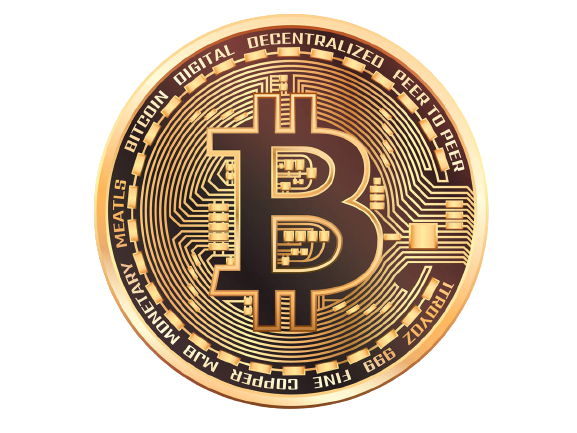
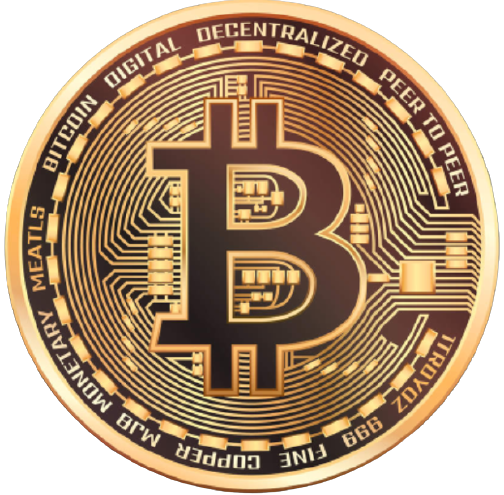
Crypto coin images - Added crypto coin images - Fixed displays and images - Fixed frontend GUI displays being a bit wack - Added the playerActions class to outsource everything player related - Designed the crypto coin frontend

diff --git a/frontend/coin/CoinDisplay.java b/frontend/coin/CoinDisplay.java
@@ -1,0 +1,70 @@
+package frontend.coin;
+
+import javax.swing.JLabel;
+import gameNav.Player;
+import javax.swing.ImageIcon;
+import java.awt.Dimension;
+import java.awt.event.MouseEvent;
+import java.awt.event.MouseListener;
+
+/**
+ * Displays the dogecoin! Ok... maybe not the doge coin at first
+ * 
+ * @author Justin
+ * @since 4/13/21
+ * @category frontend.coin
+ */
+public class CoinDisplay extends JLabel 
+{
+    private static final long serialVersionUID = 0;
+
+    /**
+     * Constructs a coin!
+     */
+    public CoinDisplay() 
+    {
+        super();
+        this.updateImage();
+        this.setVerticalAlignment(JLabel.CENTER);
+        this.setPreferredSize(new Dimension(500, 350));
+
+        /*
+            Responds to button clicks.
+            Translated bc I can't read this java mess:
+
+            this.addEventListener("click", () => {
+                coin.click();
+            })
+        */
+        this.addMouseListener(new MouseListener() {
+            public void mouseClicked(MouseEvent e) {
+                //Player.getCoin().click();
+            }
+
+            //Yes we're never going to use you smh
+            //Pls stop with the warnings pls vsc 🥺
+            public void mouseExit(MouseEvent e) {
+            }
+
+            public void mouseReleased(MouseEvent e) {
+            }
+
+            public void mousePressed(MouseEvent e) {
+            }
+
+            public void mouseExited(MouseEvent e) {
+            }
+
+            public void mouseEntered(MouseEvent e) {
+            }
+        });
+    }
+
+    /**
+     * Update the coin display image according to the player's current coin
+     */
+    public void updateImage() 
+    {
+        this.setIcon(new ImageIcon(new ImageIcon(Player.getCoin().getImage()).getImage().getScaledInstance(350, 350, 16)));
+    }
+}

diff --git a/frontend/GUI.java b/frontend/GUI.java
@@ -3,6 +3,7 @@ import javax.swing.*;
 import java.awt.BorderLayout;
 
 import frontend.statBar.StatBar;
+import frontend.coin.CoinDisplay;
 
 /**
  * Constructs a javax swing GUI for the app.
@@ -18,6 +19,11 @@ public class GUI extends JFrame
      * The statbar we're putting in to the GUI
      */
     private StatBar sBar;
+
+    /**
+     * The frontend display for the coin
+     */
+    private CoinDisplay coinDisplay;
 
     /**
      * Constructs the game GUI
@@ -39,6 +45,9 @@ public class GUI extends JFrame
         this.sBar = new StatBar();
         this.add(this.sBar, BorderLayout.NORTH);
 
+        this.coinDisplay = new CoinDisplay();
+        this.add(this.coinDisplay, BorderLayout.EAST);
+
         this.setVisible(true);
     }
 
@@ -49,5 +58,14 @@ public class GUI extends JFrame
     public StatBar getStatBar()
     {
         return this.sBar;
+    }
+
+    /**
+     * Accessor method for the coin display
+     * @return this.coinDisplay
+     */
+    public CoinDisplay getCoinDisplay()
+    {
+        return this.coinDisplay;
     }
 }

diff --git a/gameNav/PlayerActions.java b/gameNav/PlayerActions.java
@@ -1,0 +1,26 @@
+package gameNav;
+
+/**
+ * It's supposed to be game.java, but that doesn't rly exist in swing version.
+ * So now we have the PlayerActions class.
+ * This class will do all the clicking and taxes and stuff. Y' know, the fun stuff.
+ * This class is static!!!
+ * @author Justin
+ * @since 4/13/21
+ * @category gameNav
+ */
+public class PlayerActions 
+{
+    /**
+     * Doing a little trolling
+     * Ok ok we're actually stimulating a crypto coin click.
+     * Note that coins also have their own seperate click function that will be called.
+     * When you click, there's more things that happen that just a click that the coin itself doesn't manage.
+     * Like taxes
+     * @see Coin.prototype.click
+     */
+    public static void click()
+    {
+
+    }
+}

diff --git a/frontend/statBar/InvestorDisplay.java b/frontend/statBar/InvestorDisplay.java
@@ -27,7 +27,7 @@ public class InvestorDisplay extends DataDisplay
      */
     public void calibrate()
     {
-        String txt = "#" + StatLabel.calibrate(Player.getCoin().getInvestors());
+        String txt = "$" + StatLabel.calibrate(Player.getCoin().getInvestors());
         this.setText(txt);
     }
 }

diff --git a/gameNav/Player.java b/gameNav/Player.java
@@ -21,7 +21,7 @@ public class Player
     /**
      * The current coin type you have
      */
-    private static Coin currCoin = new Litecoin();
+    private static Coin currCoin = new Bitcoin();
 
     /**
      * The coin index the current coinArr idx player is at in the coinArr

diff --git a/classes/coin/Dogecoin.java b/classes/coin/Dogecoin.java
@@ -15,6 +15,6 @@ public class Dogecoin extends Coin
      */
     public Dogecoin()
     {
-        super("Dogecoin!!!", 0.0000000001, 10000, "", 10000000);
+        super("Dogecoin!!!", 0.0000000001, 10000, "images/Dogecoin.png", 10000000);
     }
 }

diff --git a/classes/coin/Pepecoin.java b/classes/coin/Pepecoin.java
@@ -14,6 +14,6 @@ public class Pepecoin extends Coin
      */
     public Pepecoin()
     {
-        super("Pepecoin", 1000, 1, "", 1000000);
+        super("Pepecoin", 1000, 1, "images/Pepecoin.png", 1000000);
     }
 }

diff --git a/classes/coin/Bitcoin.java b/classes/coin/Bitcoin.java
@@ -14,6 +14,6 @@ public class Bitcoin extends Coin
      */
     public Bitcoin()
     {
-        super("Bitcoin", 1, 300, "", 1000);
+        super("Bitcoin", 1, 300, "images/Bitcoin.png", 1000);
     }
 }

diff --git a/classes/coin/Litecoin.java b/classes/coin/Litecoin.java
@@ -11,6 +11,6 @@ public class Litecoin extends Coin
      */
     public Litecoin()
     {
-        super("Litecoin", 1, 0, "", 0);
+        super("Litecoin", 1, 0, "images/Litecoin.png", 0);
     }
 }
